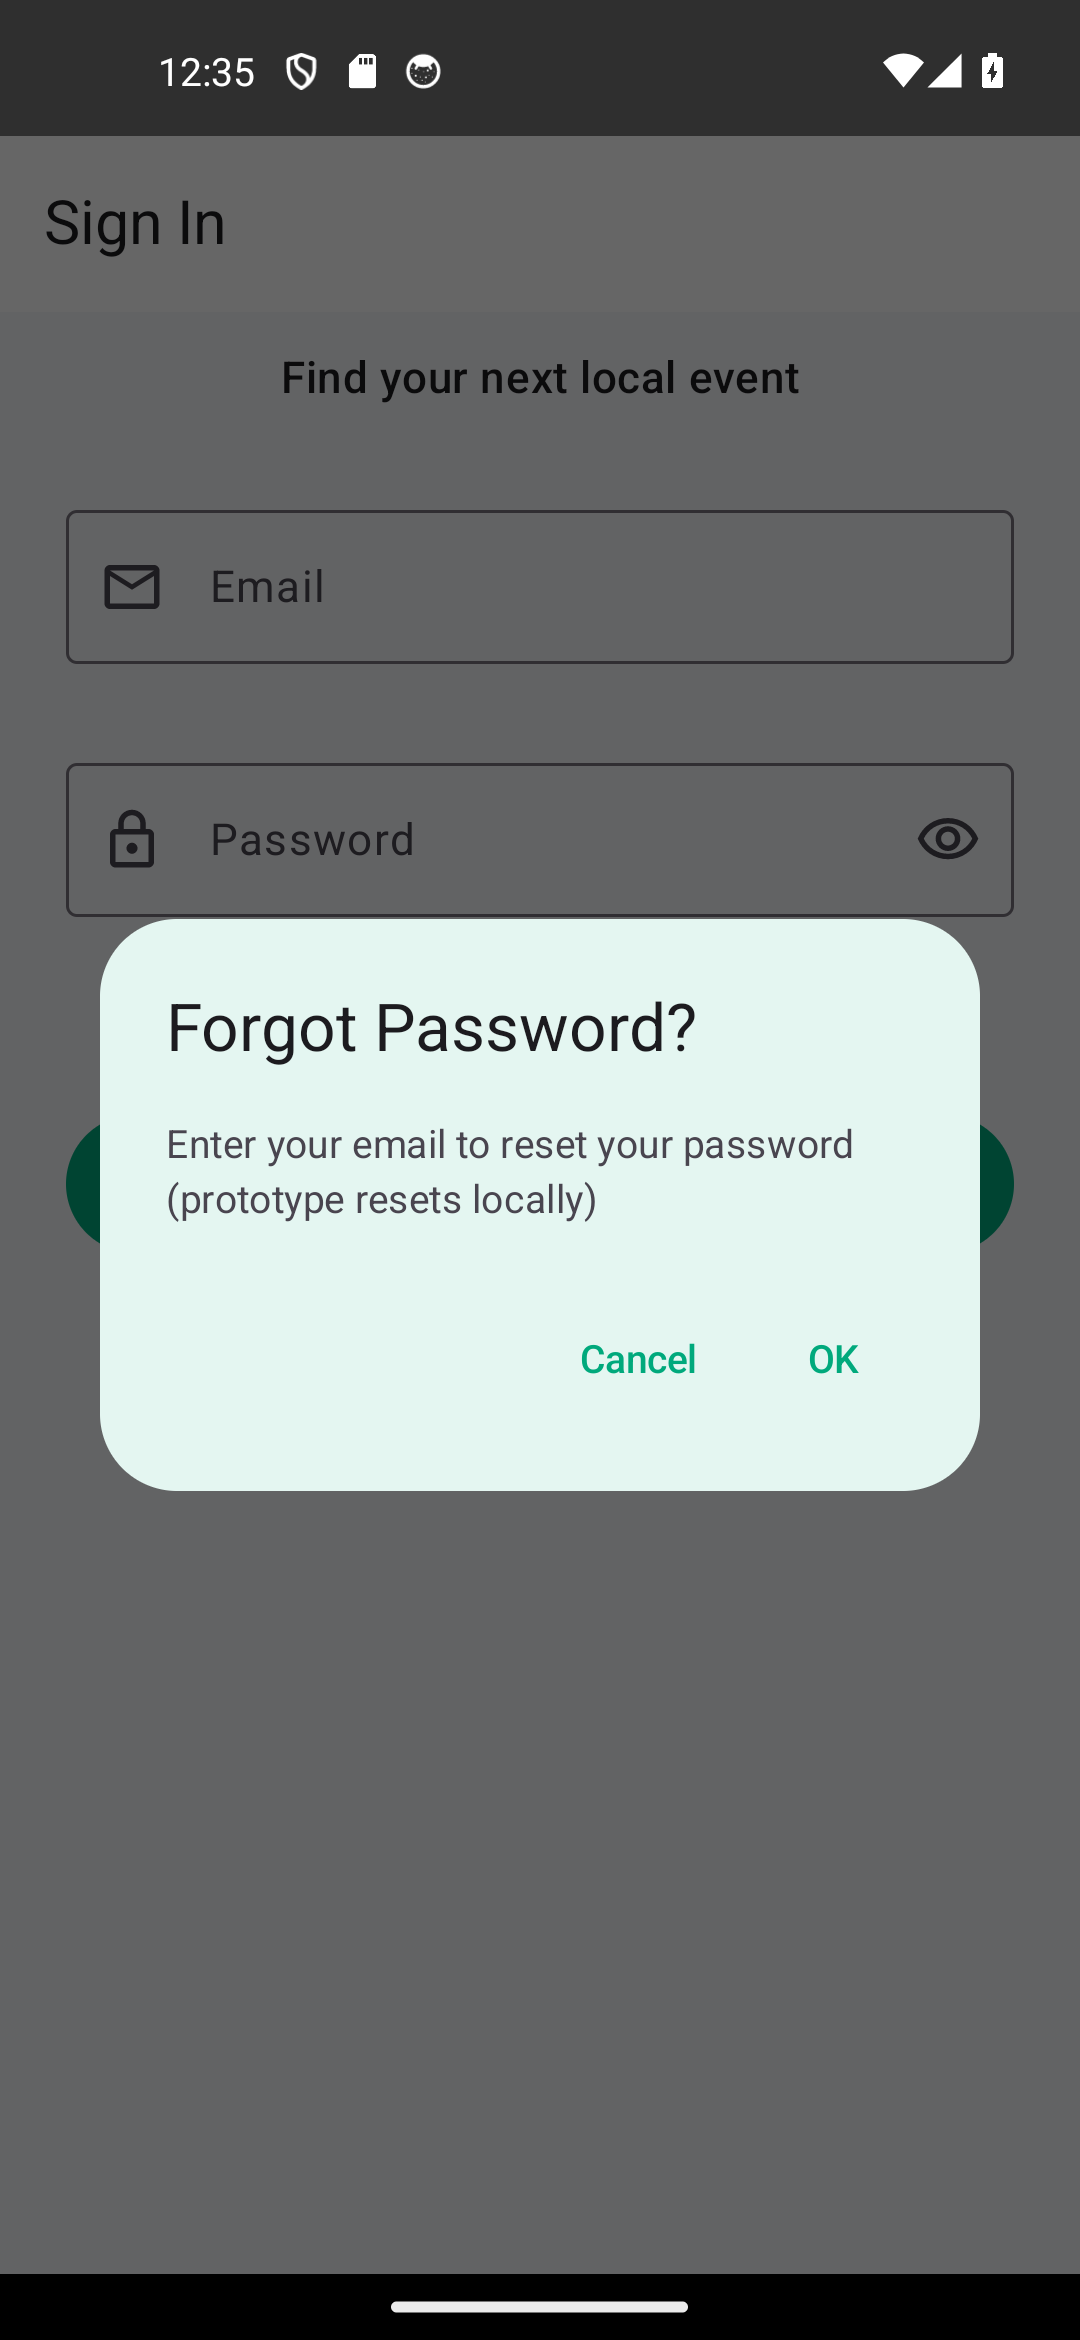
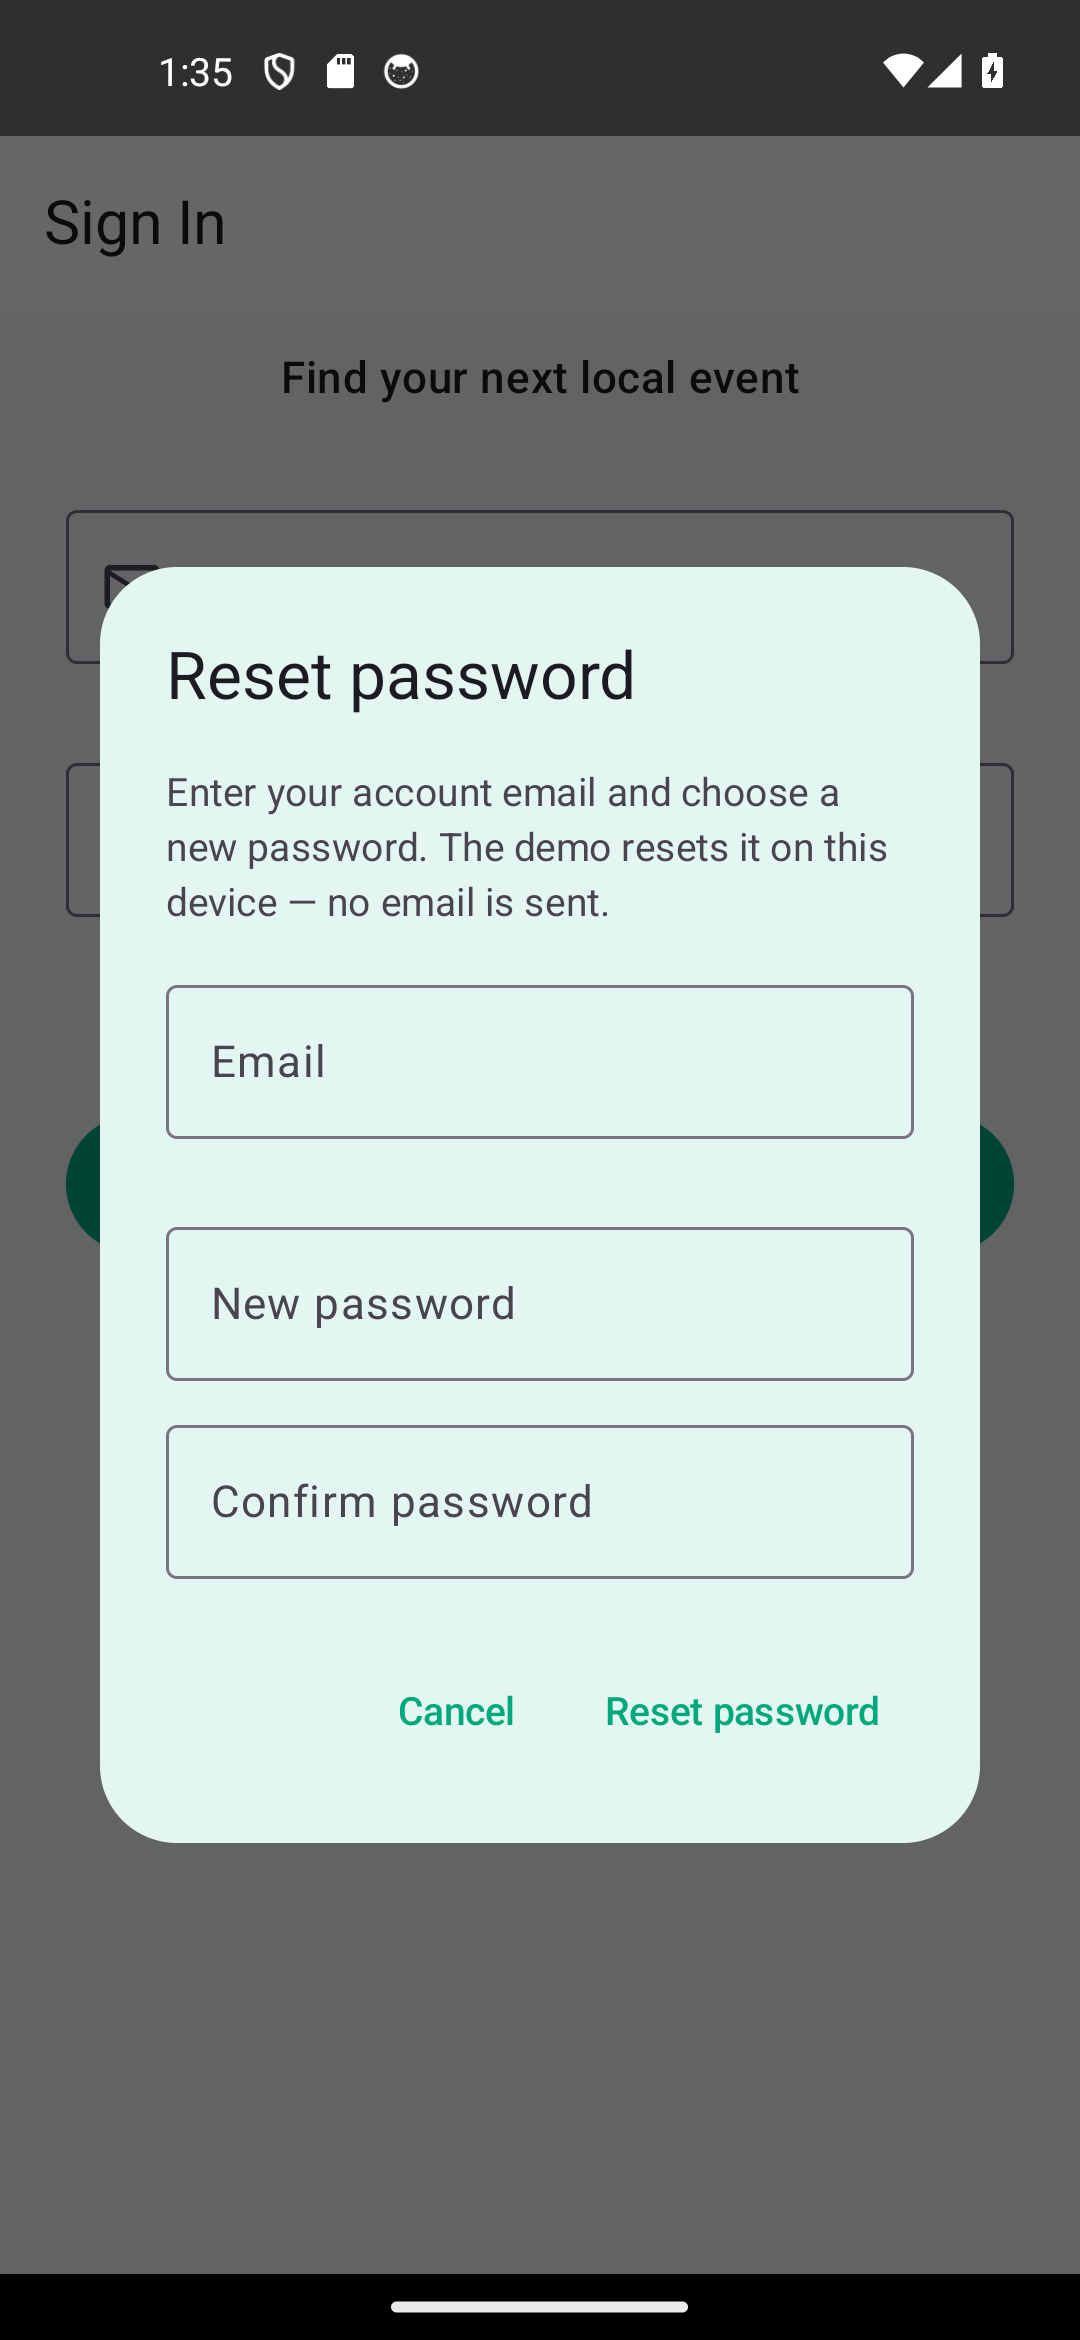
docs: refresh test counts and capture the new forgot-password dialog

diff --git a/README.md b/README.md
@@ -5,7 +5,7 @@
 ![Jetpack Compose](https://img.shields.io/badge/Jetpack%20Compose-BOM%202024.02-4285F4?logo=jetpackcompose&logoColor=white)
 ![minSdk](https://img.shields.io/badge/minSdk-26-brightgreen)
 ![targetSdk](https://img.shields.io/badge/targetSdk-34-brightgreen)
-![Tests](https://img.shields.io/badge/unit%20tests-92%20passing-success)
+![Tests](https://img.shields.io/badge/unit%20tests-113%20passing-success)
 
 A native **Android (Kotlin + Jetpack Compose)** app that helps people across South Africa
 discover, save and create local events — from Joburg jazz nights to Cape Town food markets
@@ -51,8 +51,9 @@ and runs on a physical device or emulator.
 | **Profile** | Account header, activity stats (created / attending / favourites), My Events and Attending lists. |
 | **Edit profile** | Update display name and email with validation. |
 | **Settings** | Language switch (English / Afrikaans), biometric login toggle, event reminders, new-event alerts, plus account tools (change password, clear local cache, delete account). |
-| **Auth** | Local email + password registration and login (PBKDF2-hashed), plus biometric unlock. |
+| **Auth** | Local email + password registration and login (PBKDF2-hashed), plus biometric unlock. Forgot password re-hashes a new password on-device (the free prototype sends no email). |
 | **Reminders** | `AlarmManager` + `NotificationChannel` reminders **24 hours and 1 hour** before an attended event, cancelled when the RSVP is declined. |
+| **Event alerts** | After each background sync, on-device notifications flag brand-new future events and changes to favourited events — computed by a pure diff, no push service required. |
 
 ## Screenshots
 
@@ -265,7 +266,7 @@ adb install -r app\build\outputs\apk\debug\app-debug.apk
 
 ## Testing
 
-The project has **92 JVM unit tests** across 11 suites, all runnable from the command line with
+The project has **113 JVM unit tests** across 14 suites, all runnable from the command line with
 no emulator:
 
 ```bash
@@ -277,13 +278,16 @@ no emulator:
 | `ValidatorsTest` | Email, password strength, name and the multi-field registration form. |
 | `PasswordHasherTest` | PBKDF2 hashing, salting, verification and fail-closed behaviour on malformed values. |
 | `DistanceCalculatorTest` | Haversine distance, symmetry, rounding and radius checks. |
-| `EventFiltererTest` | Keyword / category / radius filtering, three sort orders, distance attachment. |
+| `EventFiltererTest` | Keyword / category / radius filtering (including address and description matching), three sort orders, distance attachment. |
 | `EventCategoryTest` | Ticketmaster segment ↔ local category mapping in both directions. |
 | `TicketmasterMapperTest` | Full payload mapping, malformed-row skipping, coordinate fallback, image selection, date parsing. |
 | `WeatherRepositoryTest` | WMO weather-code descriptions and Open-Meteo payload handling. |
-| `EventRepositoryTest` | Seeding, sync (network + no-key), favourite/RSVP toggling, event creation, editing/deleting with ownership guard, cache clearing — using in-memory DAO fakes. |
+| `EventRepositoryTest` | Seeding, sync (network + no-key) including new/updated-favourite alert payloads, favourite/RSVP toggling, event creation, editing/deleting with ownership guard, cache clearing — using in-memory DAO fakes. |
 | `SampleEventsProviderTest` | Demo catalogue integrity (unique ids, valid SA coordinates, sane dates). |
 | `CreateEventValidationTest` | Per-step wizard validation (required title/description, future date, venue, coordinate ranges) that drives the inline error messages. |
+| `EventAlertDetectorTest` | Pure new-event / favourite-changed diffing, including quiet first sync and past-event suppression. |
+| `DateTimeUtilsTest` | Relative date helpers (today/tomorrow, day & hour offsets) and stable date formatting. |
+| `LoginViewModelTest` | Local password-reset flow (mismatch, unknown email, success) with a fake repository. |
 
 HTML reports are written to `app/build/reports/tests/testDebugUnitTest/index.html`.
 
@@ -302,6 +306,8 @@ widgets (`app/src/androidTest/.../ui/components/CommonComponentsTest.kt`):
 | `eventCard_clickInvokesCallback` | Tapping the card fires its `onClick`. |
 | `eventCard_favouriteToggleInvokesCallback` | The heart button reports add/remove from its content description. |
 | `categoryChips_selectsACategoryAndCanClearIt` | Category chips select and clear the filter. |
+| `categoryChips_selectsTheActiveChip` | The active category exposes selected semantics; the others do not. |
+| `emptyState_displaysTitleAndSubtitle` | The reusable `EmptyState` renders its icon, title and subtitle. |
 
 ## Continuous integration
 
@@ -348,7 +354,7 @@ docs/screenshots/                        Real device screenshots
 | External library integration | Room, Retrofit/OkHttp, DataStore, Coil, osmdroid, AndroidX Biometric |
 | Native Android SDK integration | `AlarmManager` + `NotificationManager` reminders, `LocationManager`/location permissions, biometrics |
 | Offline-first / robustness | Room cache + `pending_sync` queue, graceful fallbacks, validation on every form |
-| Unit testing | 92 JVM tests + 4 Compose instrumented tests + GitHub Actions CI |
+| Unit testing | 113 JVM tests + 6 Compose instrumented tests + GitHub Actions CI |
 | Logging & comments | `AppLogger` used across data/UI layers; KDoc on every class |
 | Documentation | This README with Mermaid architecture diagrams |
 
